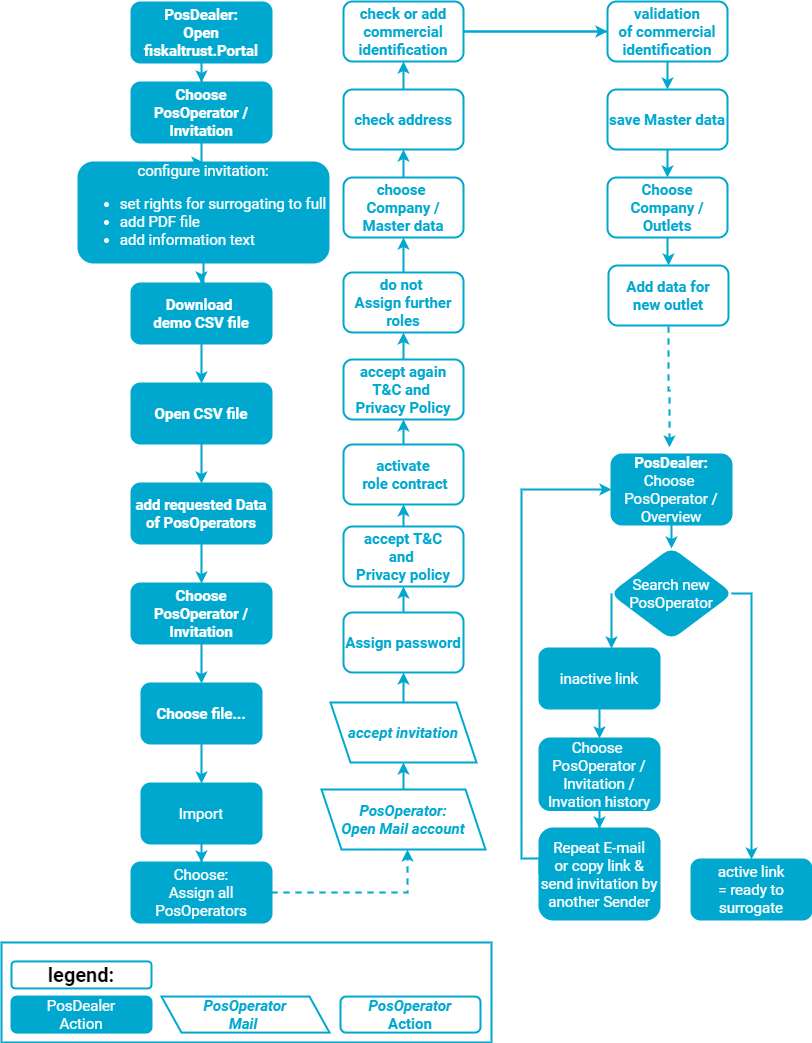
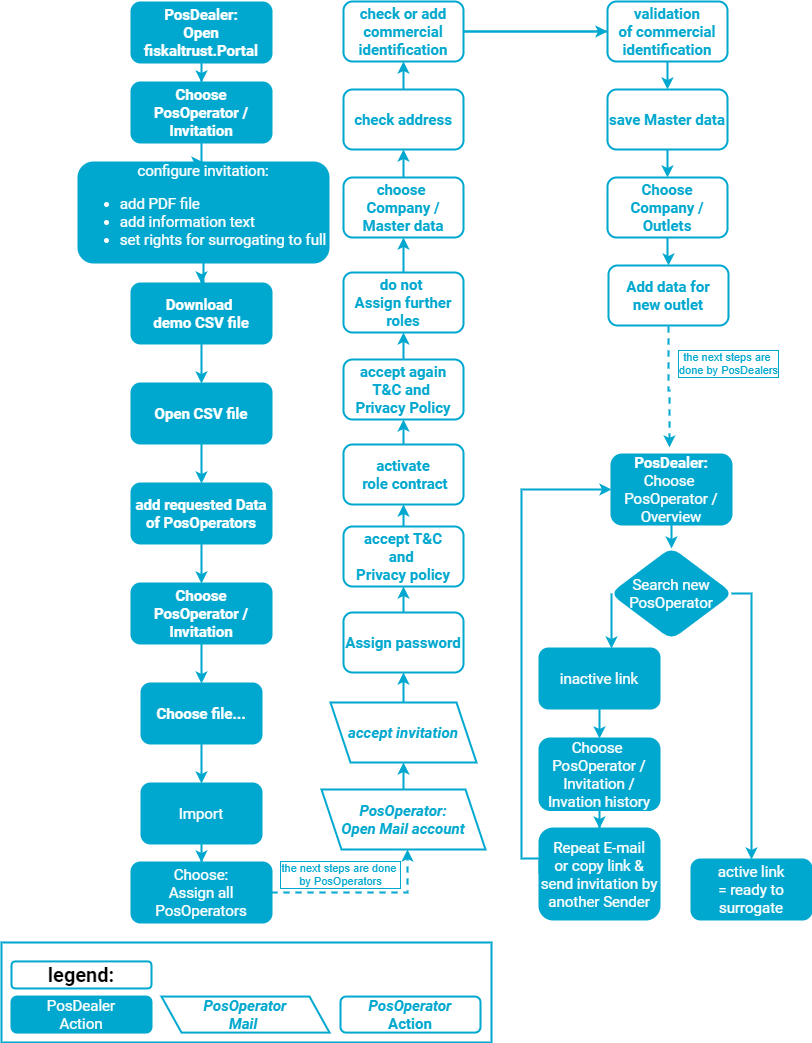
47763-final

Changed region(s): [[0.1539, 0.1841, 0.4002, 0.2454], [0.3387, 0.8284, 0.4926, 0.8591], [0.8313, 0.3375, 0.9544, 0.3682]]

diff --git a/getting-started/operator-onboarding/invitation-process.md b/getting-started/operator-onboarding/invitation-process.md
@@ -8,7 +8,7 @@ title: Invitation process
 After reading this, you can invite a single PosOperator and perform a bulk operation to invite several PosOperators.
 :::
 
-The invitation of a PosOperator can only be made by a PosDealer and not by a PosCreator or consultant.
+You as a PosDealer can do the invitation of a PosOperator only, this can not be made by a PosCreator or consultant.
 
 However, the role of a PosDealer can also be activated by these companies and thus taken over in parallel to another role.
 
@@ -18,26 +18,31 @@ However, the role of a PosDealer can also be activated by these companies and th
 
 ## Preparation of Invitations
 
-
 There are two ways to add and assign PosOperators to your Account as a PosDealer:
 
-1. For adding a single PosOperator, see chapter [_Invitation of a single PosOperator_](#invitation-of-a-single-posoperator).
-2. Adding several PosOperators by importing a CSV file with _Invitation_, see chapter [_Invitation of PosOperators_](#invitation-of-posoperators).
-3.  Checking or changing the settings for the invitations is inevitable for both ways. Therefore, regardless of the further way, prepare the settings first.  To do this, select PosOperators / Invitations.  
+1. For adding a single PosOperator, read this chapter and see afterwards [_Invitation of a single PosOperator_](#invitation-of-a-single-posoperator).
+2. For Adding several PosOperators by importing a CSV file, read this chapter and change then to [_Invitation of PosOperators_](#invitation-of-posoperators).
+3.  Checking or changing the settings for the invitations is **inevitable for both ways**. Therefore, regardless of the further way, prepare the settings first.  To do this, select PosOperators / Invitations.  
+![invitation process preparation](images/11-onboarding-portal.png "11 invitation process individual")  
 4. Control or change the setting for the invitation:
-    * PDF-Attachment: Avoid confusing your PosOperators when they receive an e-mail invitation from an unknown source like robot@- or robot@fiskaltrust.abc. Explain in an accompanying letter that you as PosDealer are extending their offers and inviting him to register with the fiskaltrust.portal via the confirmation link. Add the document in the form of a PDF as an attachment to the invitation.
-    * add information text: The automated e-mail invitation to your PosOperator from an source like robot@- or robot@fiskaltrust.abc can be supplemented with your text. Use this text block  up to a maximum of 400 characters to inform your PosOperators personally. Explain that you as PosDealer extend their offers and invite him to register with the fiskaltrust.Portal via the confirmation link.
-    * Surrogate rights: Set the rights you should have as PosDealer after switching to the PosOperator's account to [FULL]. Otherwise, you would have access to the PsOperator's account, but you would not be able to conclude contracts on his behalf. But these are necessary for the cooperation with third parties.
+    1. PDF-Attachment:  
+    Avoid confusing your PosOperators when they receive an e-mail invitation from an unknown source like robot@- or robot@fiskaltrust.abc. Explain in an accompanying letter that you as PosDealer are extending your offers and invite him to register with the fiskaltrust.portal via the confirmation link. With [Choose file...] and [Import] your document will be added as an attachment to the invitation.
+    2. add information text:  
+    The automated e-mail invitation to your PosOperator from an source like robot@- or robot@fiskaltrust.abc can be supplemented with your text. Use this text block up to a maximum of 400 characters to inform your PosOperators personally. Explain that you as PosDealer extend your offers and invite him to register with the fiskaltrust.Portal via the confirmation link.
+    3. Surrogate rights:  
+    Set the rights you should have as PosDealer after switching to the PosOperator's account to [FULL]. Otherwise, you would have access to the PsOperator's account, but you would not be able to conclude contracts on his behalf. But these are necessary for the cooperation with third parties.
 
 ## Invitation of a single PosOperator
 
+### Overview individual invitation
+
 ![invitation process individual](images/1-onboarding-individual.png "1 invitation process individual")  
 
-### Explanation
+### Explanation individual invitation
 
-This is particularly interesting for the on-site support given by the PosDealer, if a PosOperator wants to use the fiskaltrust.Services immediately - in connection with the commissioning of a POS-System. Further, you may want to learn about and test the portal and its processes in the sandbox. The Invitation of a single PosOperator is also useful here.
+The single invitation is particularly interesting for the on-site support that you give as a the PosDealer, if a PosOperator wants to use the fiskaltrust.Services immediately - in connection with the commissioning of a POS-System. Further, you may want to learn about and test the portal and its processes in the sandbox. The Invitation of a single PosOperator is also useful here.
 
-### Work steps
+### Work steps individual invitation
 
 1. Choose PosOperator / Invitation
 2. Check the settings previously described [_here_](#preparation-of-invitations).
@@ -52,21 +57,24 @@ This is particularly interesting for the on-site support given by the PosDealer,
     * User data - First name
     * Last name
     * Contact E-mail address
-5. The commercial identification is no mandatory field for the invitation. But for the correct management of the cash register systems, these data are essential.
-6. Save your Values with [Save]
+5. The commercial identification is no mandatory field for the invitation.  
+But for the correct management of the cash register systems, these data and their validation are essential.
+6. Save your values with [Save]
 7. Choose [Assign all PosOperators]
 8. If the invitation does not reach the PosOperator, please read the chapter [_Managing the invitations_](#managing-the-invitations)
 
 
 ## Invitation of PosOperators in a bulk process
 
+### Overview bulk process
+
 ![Invitation of PosOperators in a bulk process](images/2-onboarding-bulk.png "2-onboarding-bulk.png")  
 
-### Explanation
+### Explanation bulk process
 
 Inviting PosOperators to a PosDealer account with an import file is especially interesting if you want to invite a larger number of business partners. Since the invitations are created and sent automatically via the fiskaltrust.portal, the information of your business partners is relevant. Therefore, please note the section on preparation to avoid irritation, loss of time or effort due to invitations mistakenly treated as SPAM. The necessary structure of the CSV file is described using an example. This example can be obtained in the fiskaltrust.Portal. 
 
-### Work steps
+### Work steps bulk process
 
 ![invitation via csv file](images/6-onboarding-portal.png "6-onboarding")  
 
@@ -80,7 +88,7 @@ Inviting PosOperators to a PosDealer account with an import file is especially i
 8. With [Import] the data are uploaded and analyzed to avoid duplicate or incomplete records. You can control or add data to each record. 
 9. Choose [Assign all PosOperators] to send the invitation-E-mail to each business partner in your CSV file.
 
-#### Fields of the CSV file
+### Fields of the CSV file
 
 
 | Fields | Description                                                                                                                         | Mandatory |
@@ -89,12 +97,12 @@ Inviting PosOperators to a PosDealer account with an import file is especially i
 | AccountEmail           | General e-mail address of the company<br />**IMPORTANT!**<br />All information and all invoices will be sent to this e-mail address!      | no        |
 | AccountAddressLine1    | Address, first line of the company                                                                                                  | no        |
 | AccountAddressLine2    | Address, second line of the company                                                                                                 | no        |
-| AccountPostalCode      | Postcode of the company                                                                                                             | no        |
+| AccountPostalCode      | Postcode of the company                                                                                                             | no (A)        |
 | AccountCity            | Name of city of the company's address                                                                                               | no        |
 | AccountCountry         | Zip-Code of the city                                                                                                                | no        |
 | AccountWeb             | URL of the company's website                                                                                                        | no        |
 | AccountPhone           | Company phone number                                                                                                                | no        |
-| commercial identification 1           | country-specific<br />**IMPORTANT!**<br />This is one of the identification criterias for legalisation of the service.        | no        |
+| commercial identification 1           | country-specific<br />**IMPORTANT!**<br />This is one of the identification criterias for legalisation of the service.        | no (B)        |
 | commercial identification 2          | country-specific<br />**IMPORTANT!**<br />This is one of the identification criterias for legalisation of the service.        | no        |
 | ContactFirstName       | First name of the primary contact                                                                                                   | yes       |
 | ContactLastName        | Last name of primary contact                                                                                                        | yes       |
@@ -102,11 +110,13 @@ Inviting PosOperators to a PosDealer account with an import file is especially i
 | ContactTitle           | (Academic) Title of primary contact (before name)                                                                                   | no        |
 | ContactMobilePhone     | Mobile phone number of the primary contact                                                                                          | no        |
 
-Not all of the fields _commercial identification_ are mandatory. The naming might be country-specific, but one of the three fields should be completed.
+A = Not all of the fields _commercial identification_ are mandatory. The naming might be country-specific, but one of the three fields should be completed.
+B = There may be country-specific differences in which fields are mandatory to fill in. For example, the postal code is only mandatory in Austria. 
 
 #### Handling error messages
 
-*![Import errors ](images/7-onboarding-portal.png "7-onboarding-portal.png")
+![Import errors ](images/7-onboarding-portal.png "7-onboarding-portal.png")
+
 * If not all of the mandatory fields of the csv file are completed error messages with the wrong or missing data are shown.
 * please note the error messages and add the necessary data in the respective lines of the CSV file 
 
@@ -114,9 +124,9 @@ Not all of the fields _commercial identification_ are mandatory. The naming migh
 
 ### Explanation 
 
-If the preparations are done, the invitation process should work autimatised. However, if problems arise, you can fix the most of them on yourself. Have a look at the protocol of invitations, if a PosOperator claims, that there was no e-mail invitation. There a several ways to help.
+If the preparations are done, the invitation process should work automatized. However, if problems arise, you can fix the most of them on yourself. Have a look at the protocol of invitations, if a PosOperator claims, that there was no e-mail invitation. There a several ways to help.
 
-#### Assigning, editing and deleting a PosOperator
+### Assigning, editing and deleting a PosOperator
 
 ![8-onboarding](images/8-onboarding-portal.png "8-onboarding-portal")
 
@@ -126,7 +136,7 @@ If the preparations are done, the invitation process should work autimatised. Ho
 * Choose ![Number 3](images/Numbers/circle-3o.png) to edit the data of the PosOperator, if they are not correct and can not be assigned to the PosDealers account.
 * Use ![Number 4](images/Numbers/circle-4o.png) to delete the data of a not yet assigned PosOperator.
 
-#### Assigning PosOperators in a bulk process
+### Assigning PosOperators in a bulk process
 
 ![9-onboarding](images/9-onboarding-portal.png "9-onboarding-portal")
 
@@ -134,7 +144,7 @@ If the preparations are done, the invitation process should work autimatised. Ho
 * ![Number 2](images/Numbers/circle-2o.png) is used for a manual invitation, see chapter [_Invitation of a single PosOperator_](#invitation-of-a-single-posoperator).
 * Choose ![Number 3](images/Numbers/circle-3o.png) for for control or also repair of e-mail invitations.
 
-#### Protocol of invitations
+### Protocol of invitations
 
 ![10-onboarding](images/10-onboarding-portal.png "10-onboarding-portal")
 
@@ -147,5 +157,3 @@ Entering a text filters at [Search table] reduces the overview. By deleting all 
 6. Shows a window with the direct link for the invitation. This can be copied in the clipboard and send by direct message. 
 
 Return to the Invitation module with [Overview of PosOperator].
-
-### Information for PosOperators
